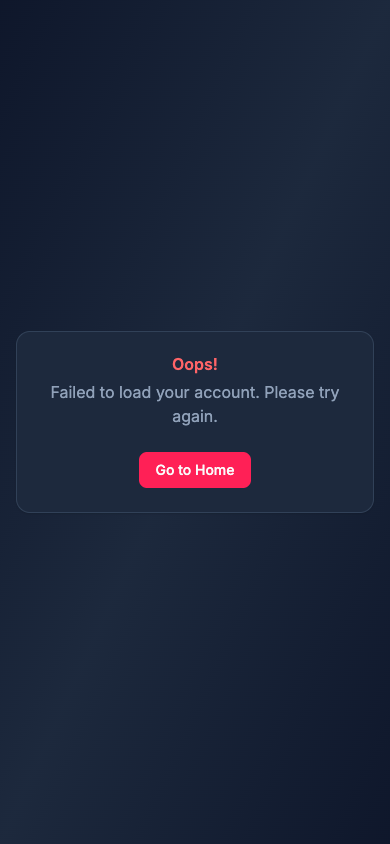
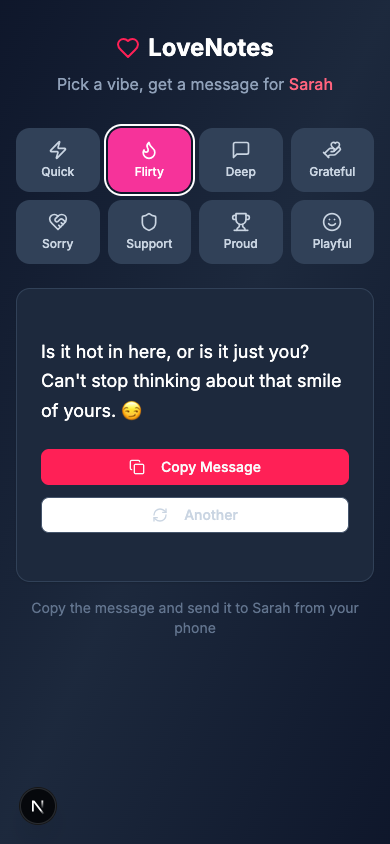
fix: Update dashboard screenshots with demo mode
- Add demo mode to dashboard (?demo=true) for screenshots
- Dashboard now shows actual UI with voice selection and message
- Mobile dashboard screenshot also shows working state
- Remove error state from README screenshots

diff --git a/app/dashboard/page.tsx b/app/dashboard/page.tsx
@@ -1,6 +1,7 @@
 "use client"
 
-import { useState, useEffect } from "react"
+import { useState, useEffect, Suspense } from "react"
+import { useSearchParams } from "next/navigation"
 import { Button } from "@/components/ui/button"
 import { Card, CardContent, CardHeader, CardTitle } from "@/components/ui/card"
 import { Heart, Copy, Check, RefreshCw, Zap, Flame, MessageSquare, HandHeart, HeartHandshake, Shield, Trophy, Smile } from "lucide-react"
@@ -41,19 +42,41 @@ const voices = [
   { id: 'playful', label: 'Playful', icon: Smile, color: 'bg-rose-500 hover:bg-rose-600' },
 ]
 
-export default function DashboardPage() {
+// Demo messages for screenshot/preview mode
+const demoMessages: Record<string, string> = {
+  quick: "Hey beautiful, just thinking about you. Hope your day is as amazing as you are. ❤",
+  flirty: "Is it hot in here, or is it just you? Can't stop thinking about that smile of yours. 😏",
+  deep: "Sarah, every day with you feels like a gift I never knew I needed. You've made me a better man.",
+  grateful: "Thank you for being my rock, my best friend, and the love of my life. I don't say it enough.",
+  sorry: "I know I messed up. You deserve better, and I'm committed to being that person for you.",
+  supportive: "Whatever you're facing today, remember - I believe in you completely. You've got this.",
+  proud: "Watching you crush it every day inspires me. I'm so proud to be your husband.",
+  playful: "Hey wifey! If loving you is wrong, I don't want to be right. 😄 Have an awesome day!"
+}
+
+function DashboardContent() {
+  const searchParams = useSearchParams()
+  const isDemo = searchParams.get('demo') === 'true'
+
   const [subscriber, setSubscriber] = useState<Subscriber | null>(null)
   const [message, setMessage] = useState<Message | null>(null)
-  const [selectedVoice, setSelectedVoice] = useState<string | null>(null)
+  const [selectedVoice, setSelectedVoice] = useState<string | null>(isDemo ? 'flirty' : null)
   const [copied, setCopied] = useState(false)
-  const [loading, setLoading] = useState(true)
+  const [loading, setLoading] = useState(!isDemo)
   const [messageLoading, setMessageLoading] = useState(false)
   const [error, setError] = useState<string | null>(null)
 
   useEffect(() => {
+    // Demo mode - skip auth and show sample data
+    if (isDemo) {
+      setSubscriber({ id: 'demo', email: 'demo@example.com', wife_name: 'Sarah', frequency: 'daily' })
+      setMessage({ id: 1, voice: 'flirty', content: demoMessages['flirty'], wifeName: 'Sarah' })
+      setLoading(false)
+      return
+    }
     // Auth is now cookie-based - just call the API and it will validate
     loadSubscriber()
-  }, [])
+  }, [isDemo])
 
   const loadSubscriber = async () => {
     try {
@@ -79,6 +102,14 @@ export default function DashboardPage() {
     setMessageLoading(true)
     setSelectedVoice(voice)
     setCopied(false)
+
+    // Demo mode - use local demo messages
+    if (isDemo) {
+      await new Promise(r => setTimeout(r, 300)) // Simulate loading
+      setMessage({ id: 1, voice, content: demoMessages[voice] || demoMessages['quick'], wifeName: subscriber.wife_name })
+      setMessageLoading(false)
+      return
+    }
 
     try {
       const res = await fetch(`${API_URL}/messages/random?theme=${voice}&name=${encodeURIComponent(subscriber.wife_name)}`)
@@ -228,5 +259,19 @@ export default function DashboardPage() {
         </p>
       </div>
     </div>
+  )
+}
+
+export default function DashboardPage() {
+  return (
+    <Suspense fallback={
+      <div className="min-h-screen bg-gradient-to-br from-slate-900 via-slate-800 to-slate-900 flex items-center justify-center">
+        <div className="animate-pulse">
+          <Heart className="h-12 w-12 text-rose-400" />
+        </div>
+      </div>
+    }>
+      <DashboardContent />
+    </Suspense>
   )
 }

diff --git a/scripts/take-screenshots.js b/scripts/take-screenshots.js
@@ -1,0 +1,68 @@
+const puppeteer = require('puppeteer');
+const path = require('path');
+
+const BASE_URL = 'http://localhost:3000';
+const SCREENSHOTS_DIR = path.join(__dirname, '..', 'screenshots');
+
+async function takeScreenshots() {
+  console.log('Launching browser...');
+  const browser = await puppeteer.launch({
+    headless: true,
+    args: ['--no-sandbox', '--disable-setuid-sandbox']
+  });
+
+  const page = await browser.newPage();
+  await page.setViewport({ width: 1400, height: 900 });
+
+  // Landing page - hero section
+  console.log('Taking landing page screenshots...');
+  await page.goto(BASE_URL, { waitUntil: 'networkidle2' });
+  await page.screenshot({ path: path.join(SCREENSHOTS_DIR, '01-landing-hero.png'), fullPage: false });
+
+  // Scroll to How It Works
+  await page.evaluate(() => document.getElementById('how-it-works')?.scrollIntoView());
+  await new Promise(r => setTimeout(r, 500));
+  await page.screenshot({ path: path.join(SCREENSHOTS_DIR, '02-how-it-works.png'), fullPage: false });
+
+  // Scroll to Pricing
+  await page.evaluate(() => document.getElementById('pricing')?.scrollIntoView());
+  await new Promise(r => setTimeout(r, 500));
+  await page.screenshot({ path: path.join(SCREENSHOTS_DIR, '03-pricing.png'), fullPage: false });
+
+  // Scroll to Signup Form
+  await page.evaluate(() => document.getElementById('signup')?.scrollIntoView());
+  await new Promise(r => setTimeout(r, 500));
+  await page.screenshot({ path: path.join(SCREENSHOTS_DIR, '04-signup-form.png'), fullPage: false });
+
+  // Full landing page
+  await page.evaluate(() => window.scrollTo(0, 0));
+  await new Promise(r => setTimeout(r, 500));
+  await page.screenshot({ path: path.join(SCREENSHOTS_DIR, '00-landing-full.png'), fullPage: true });
+
+  // Dashboard page (using demo mode)
+  console.log('Taking dashboard screenshot...');
+  await page.goto(`${BASE_URL}/dashboard?demo=true`, { waitUntil: 'networkidle2' });
+  await new Promise(r => setTimeout(r, 500));
+  await page.screenshot({ path: path.join(SCREENSHOTS_DIR, '05-dashboard.png'), fullPage: false });
+
+  // Success page
+  console.log('Taking success page screenshot...');
+  await page.goto(`${BASE_URL}/success?name=Sarah`, { waitUntil: 'networkidle2' });
+  await page.screenshot({ path: path.join(SCREENSHOTS_DIR, '06-success.png'), fullPage: false });
+
+  // Mobile viewport - landing
+  console.log('Taking mobile screenshots...');
+  await page.setViewport({ width: 390, height: 844 });
+  await page.goto(BASE_URL, { waitUntil: 'networkidle2' });
+  await page.screenshot({ path: path.join(SCREENSHOTS_DIR, '07-mobile-landing.png'), fullPage: false });
+
+  // Mobile - dashboard (using demo mode)
+  await page.goto(`${BASE_URL}/dashboard?demo=true`, { waitUntil: 'networkidle2' });
+  await new Promise(r => setTimeout(r, 500));
+  await page.screenshot({ path: path.join(SCREENSHOTS_DIR, '08-mobile-dashboard.png'), fullPage: false });
+
+  await browser.close();
+  console.log('Screenshots complete!');
+}
+
+takeScreenshots().catch(console.error);
